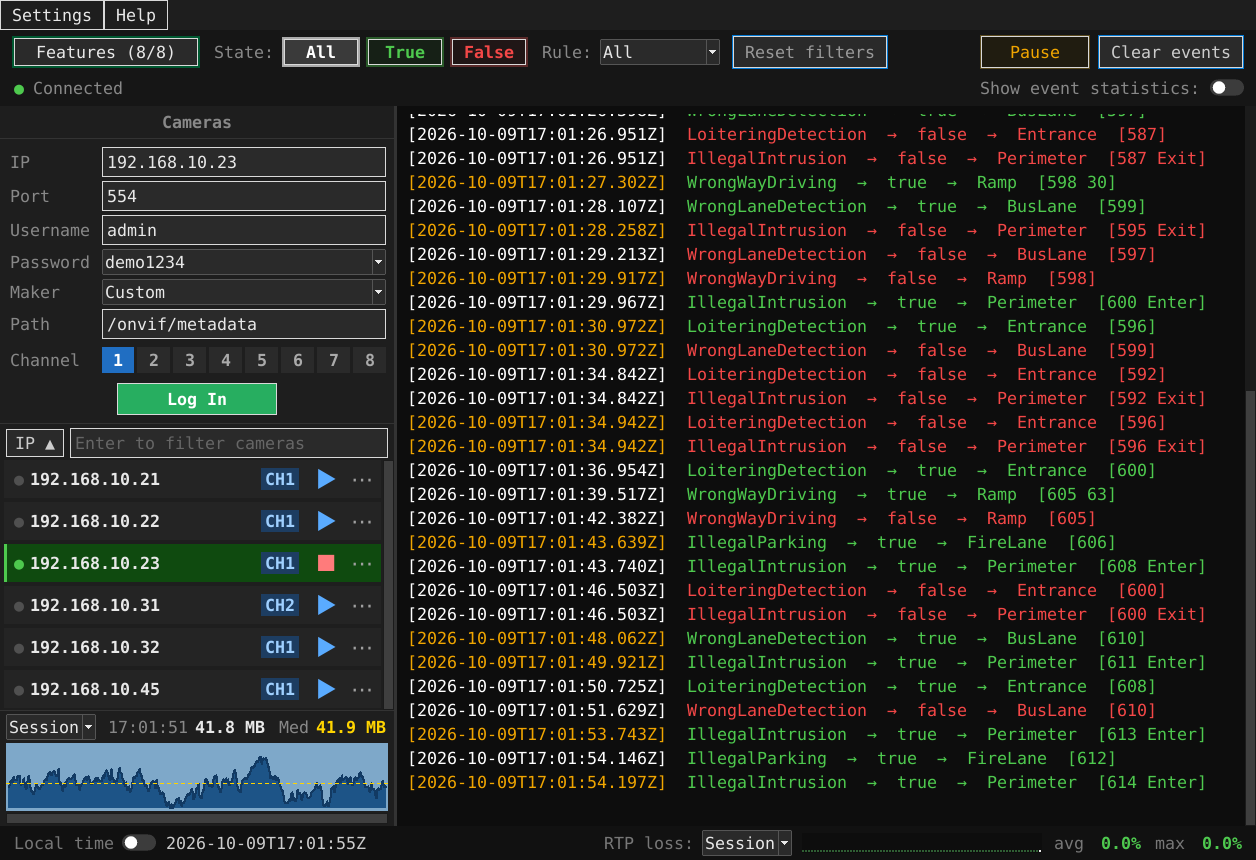
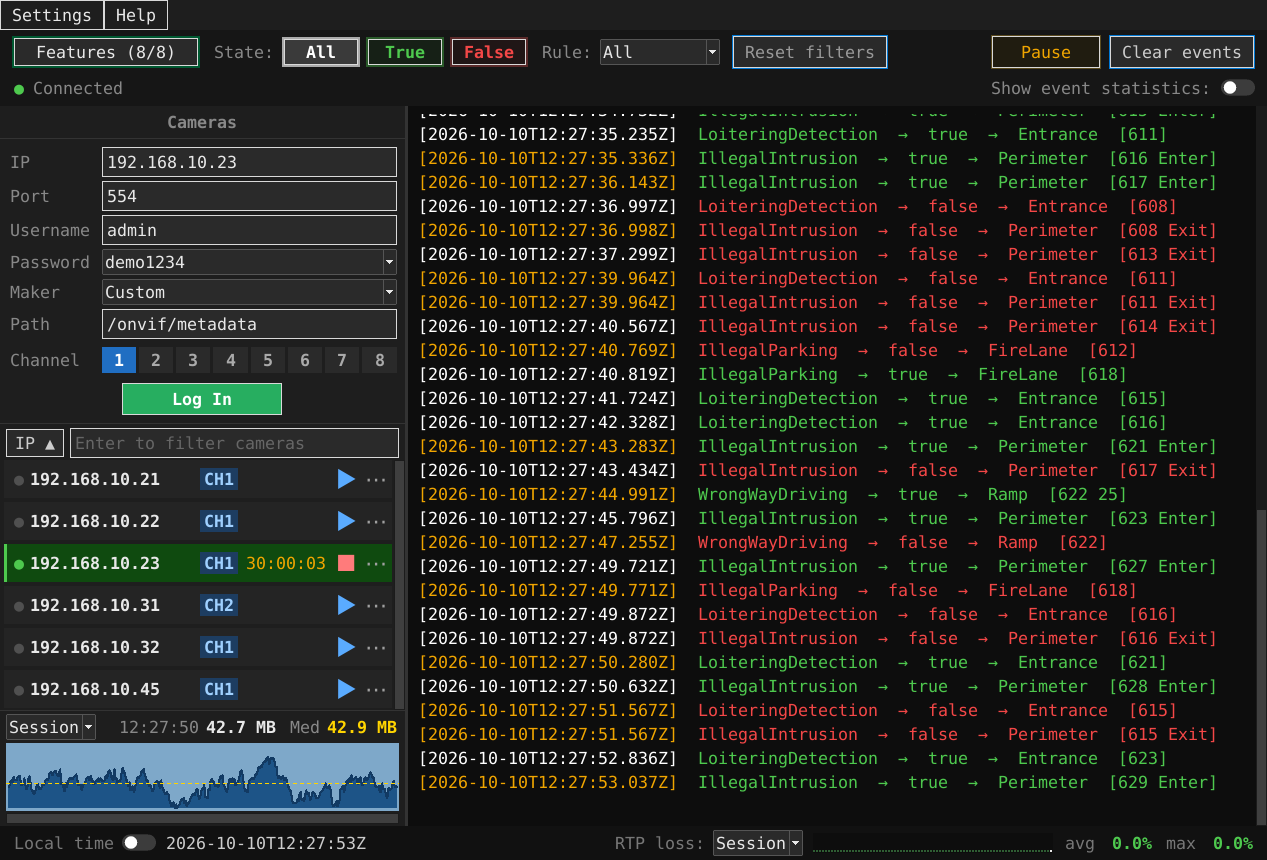
Site: memory and RTP loss tutorial; session time in the camera row; averages over the last seconds
- How to use: a seventh topic, App memory and RTP loss (memory should stay
  level; a line that keeps climbing is a leak to report).
- Screenshots and animations recorded again: the session time in the
  connected camera's row, the statistics' averaging range.
- Feature list: averages over the whole session or the last 10 s to 1 min,
  the memory-leak check, and that the camera paths are suggestions.

diff --git a/index.html b/index.html
@@ -195,10 +195,10 @@
       <li><b>Pause</b> (Space) stops printing so you can read; a banner marks the pause and how many events it skipped.</li>
       <li><b>Metadata on a double-click:</b> a timestamp copies that event's XML; a feature name shows it, colour-coded, with a picture of it on the clipboard.</li>
       <li><b>Your fields:</b> choose which SimpleItem values follow each event (ObjectId, Action, Speed, Count, or add your own).</li>
-      <li><b>Event statistics:</b> True / False / total per feature, Enter / Exit counts, average rates, the last state and the time since it.</li>
-      <li><b>Health charts:</b> RTP packet loss over the last minutes or the whole session, and the app's own memory use.</li>
+      <li><b>Event statistics:</b> True / False / total per feature, Enter / Exit counts, average rates (over the whole session or its last 10 seconds to 1 minute), the last state and the time since it.</li>
+      <li><b>Health charts:</b> RTP packet loss over the last minutes or the whole session, and the app's own memory use, which should stay level: a line that keeps climbing is a memory leak worth reporting.</li>
       <li><b>Saving:</b> event logs and raw metadata per camera, each switched on only if you want it.</li>
-      <li><b>Any ONVIF camera:</b> the metadata path is filled in for Avigilon, Axis, Bosch, Dahua, Hanwha Vision, Hikvision and Uniview (and can be changed per maker in Settings), and the list is not a limit: any camera that streams ONVIF metadata over RTSP works with its own path.</li>
+      <li><b>Any ONVIF camera:</b> the metadata path is filled in for Avigilon, Axis, Bosch, Dahua, Hanwha Vision, Hikvision and Uniview (suggested paths: not every model could be tested, so each can be changed per manufacturer in Settings, and a wrong one reported below), and the list is not a limit: any camera that streams ONVIF metadata over RTSP works with its own path.</li>
       <li><b>Any analytics app:</b> every event is shown under its own name, from whichever app or rule engine sent it; nothing to set up.</li>
       <li><b>Steady:</b> reconnects by itself when the stream drops; cameras, passwords and channels 1-8 are remembered.</li>
       <li><b>Portable and up to date:</b> no installer; <b>Update now</b> installs a new version in place.</li>
@@ -345,7 +345,7 @@ const DEMO_VIDEO = "media/demo.mp4";
 const DEMO_POSTER = "media/demo.jpg";
 // The screenshots' revision: tools/demo_screenshots.py sets it when it saves new
 // ones, so browsers and the Pages CDN fetch them again instead of a cached copy.
-const MEDIA_REV = "202610091704";
+const MEDIA_REV = "202610101228";
 const SCREENSHOTS = [
   ["media/screenshot-1.png", "Main window after 30 hours: cameras, live event log, memory and RTP loss"],
   ["media/screenshot-2.png", "Choose the camera's maker: the path of its metadata stream is filled in"],
